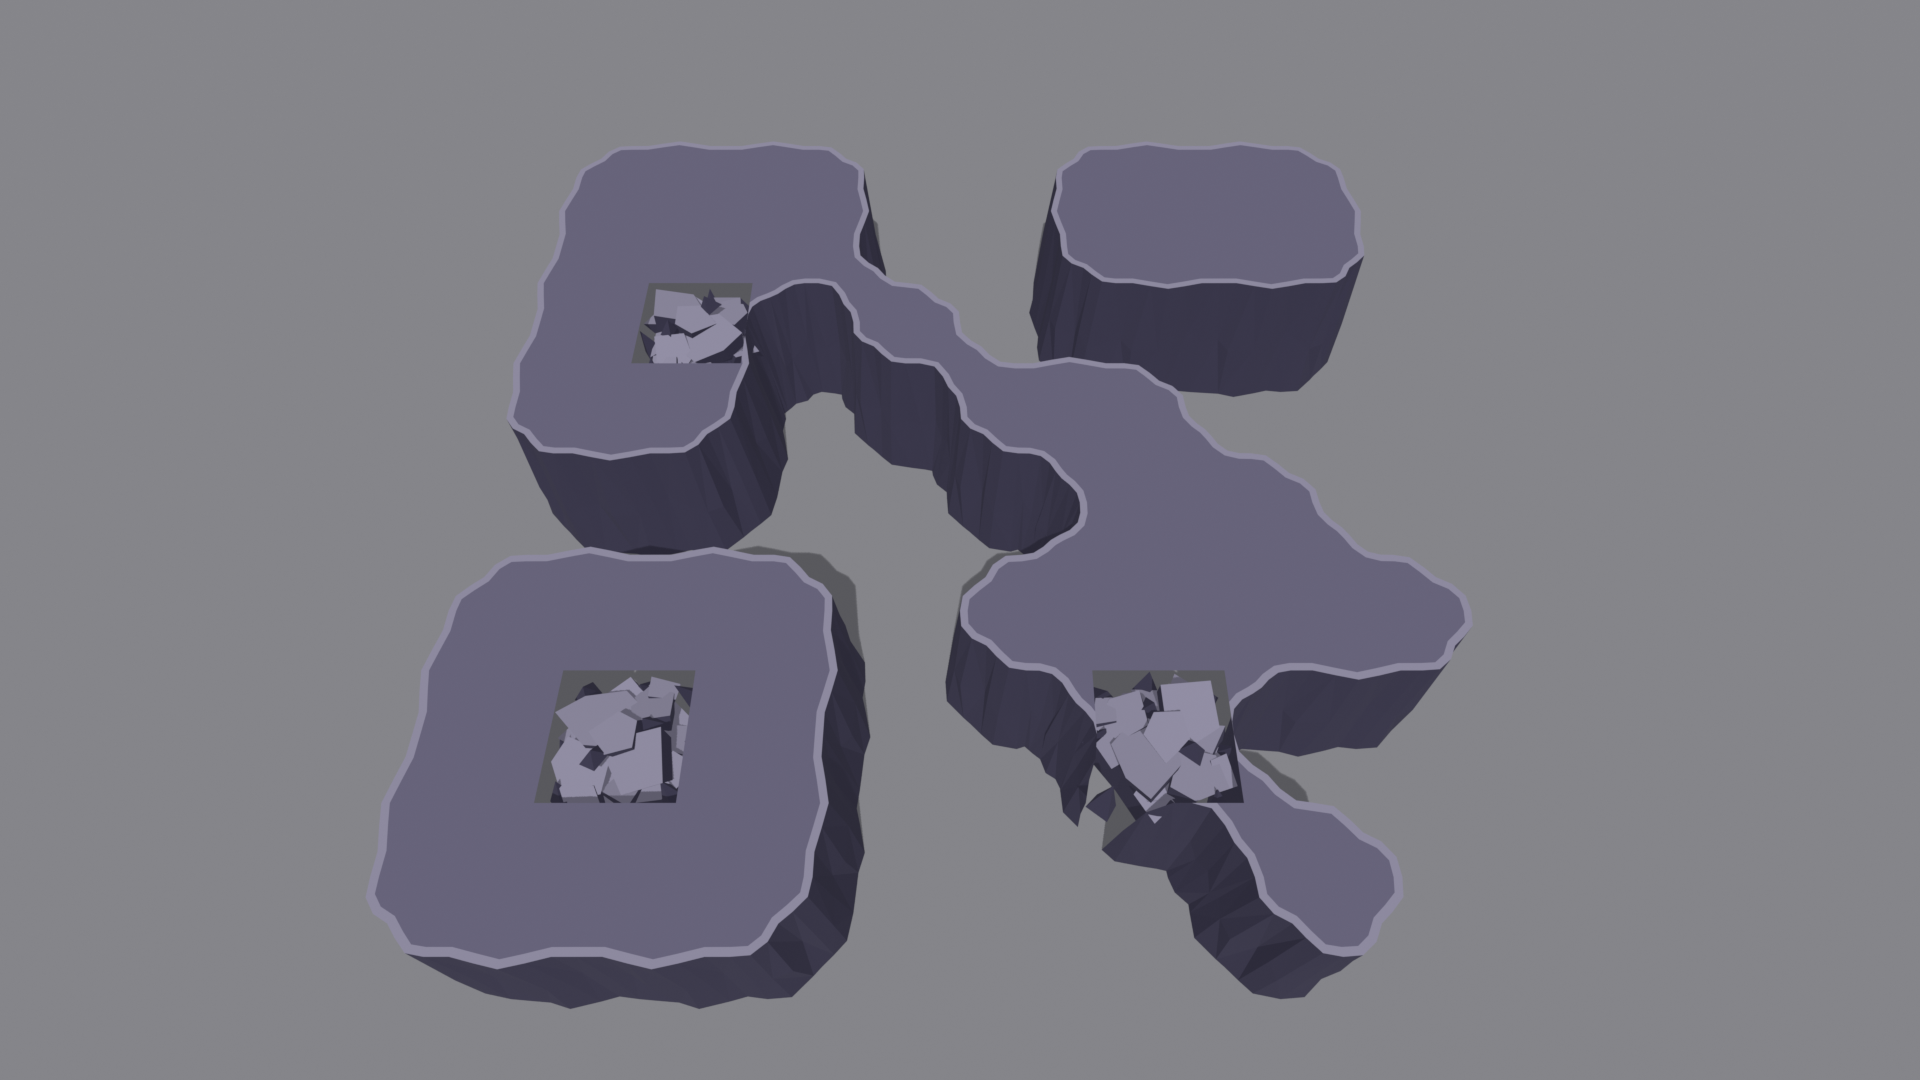
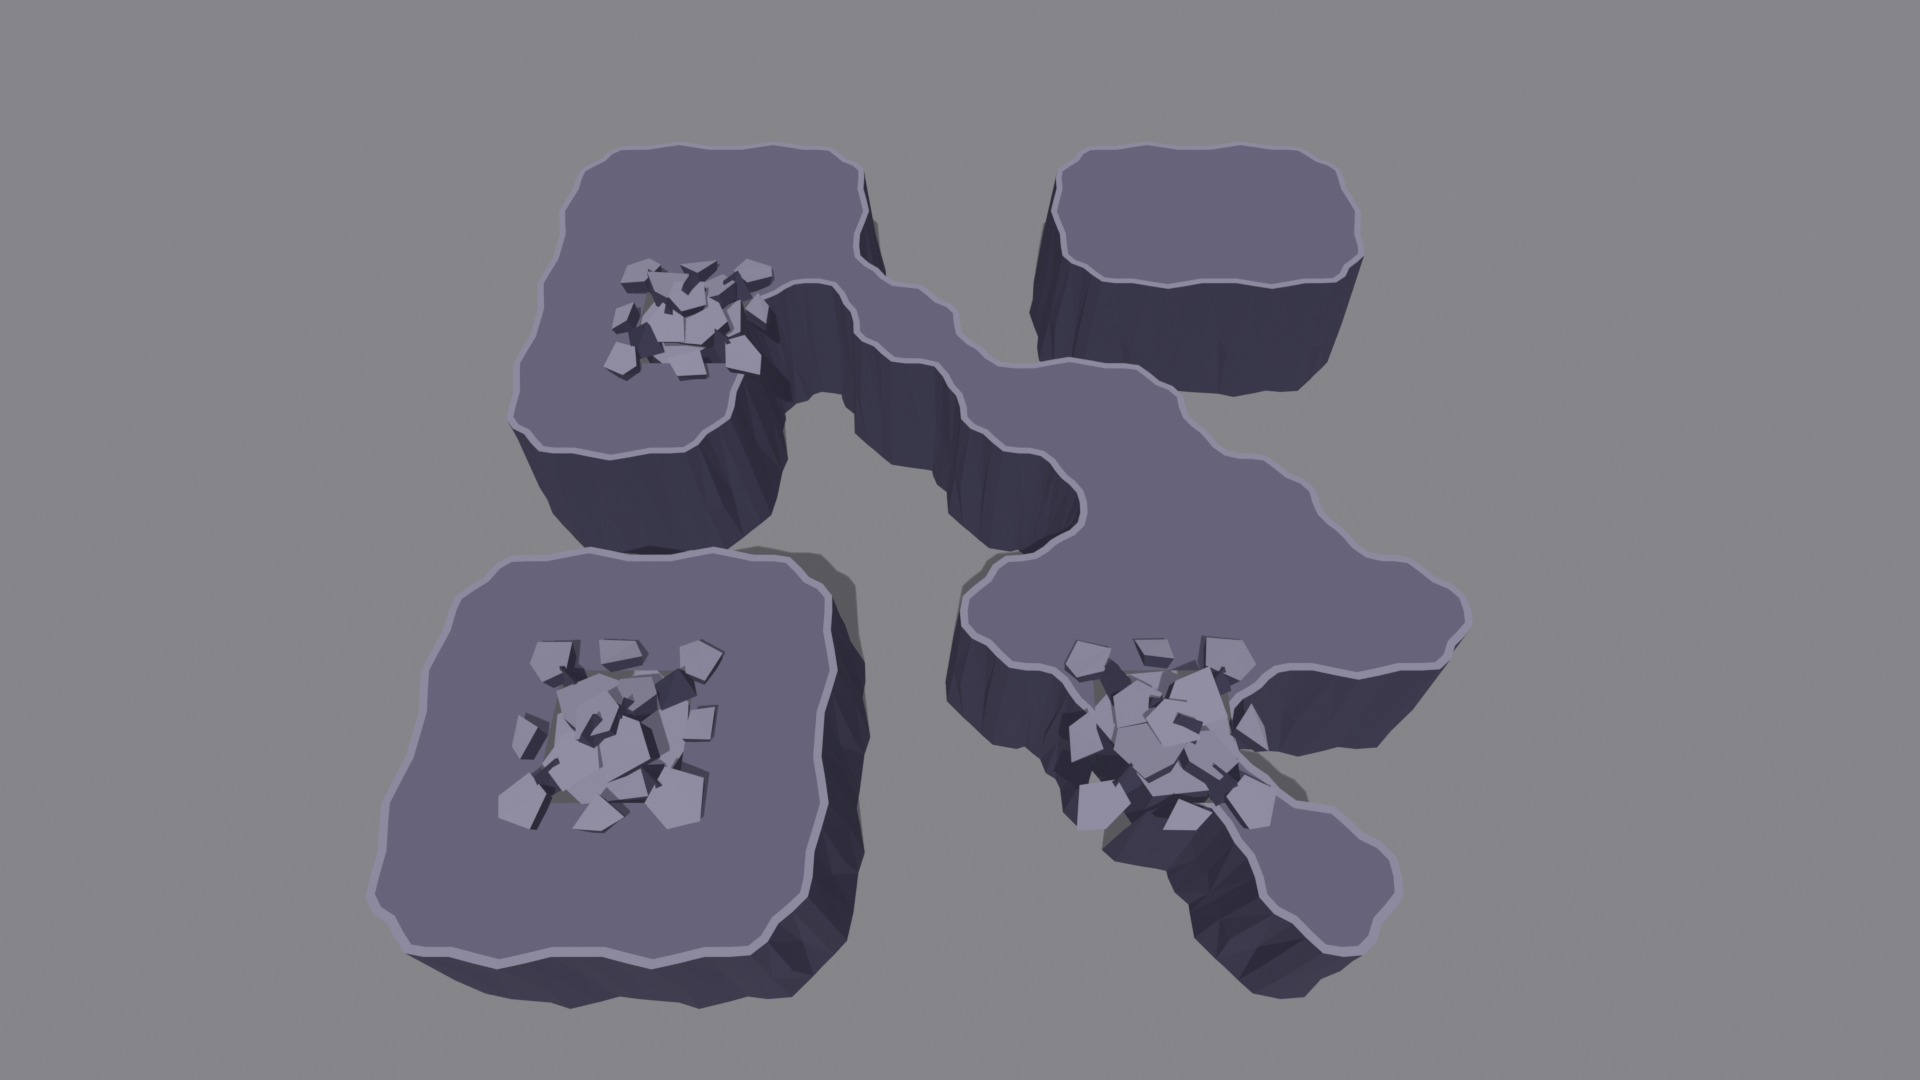
task-230-06-rock-plate-overlay: owner correction, heaved cluster up to z 132, 14 uu spill, chunky wedges (218 tris)

Changed region(s): [[0.25, 0.5806, 0.375, 0.7639], [0.5312, 0.5806, 0.6875, 0.7639], [0.3125, 0.2444, 0.4062, 0.3667]]

diff --git a/Tools/art/blender/rock_plates.py b/Tools/art/blender/rock_plates.py
@@ -8,7 +8,7 @@ import bpy, bmesh, math, os, sys, json, random
 from mathutils import Vector, Matrix
 
 H = 33.5
-MAX_OUT = 5.0          # allowed overshoot beyond the footprint
+MAX_OUT = 15.0         # allowed overshoot beyond the footprint
 TOPSLAB = 100.0
 argv = sys.argv[sys.argv.index("--") + 1:] if "--" in sys.argv else []
 ROOT = os.path.abspath(os.path.join(os.path.dirname(os.path.abspath(__file__)), "..", "..", ".."))
@@ -69,51 +69,46 @@ def plate(b, rng, c, r, t, n, az, deg, bottom_shrink=0.8, spin=None):
         b.tri(top[i], bot[j], bot[i], ctr, False)
 
 
-def shard(b, rng, c, r, h, n, lean_az, lean_deg):
-    """upright broken shard: n-gon base (z = c.z), apex offset by lean; no base face. n tris."""
-    ang = [2 * math.pi * (i + rng.uniform(-0.2, 0.2)) / n + rng.uniform(0, 0.3) for i in range(n)]
-    base = [Vector((c[0] + r * rng.uniform(0.7, 1.15) * math.cos(a), c[1] + r * rng.uniform(0.7, 1.15) * math.sin(a), c[2])) for a in ang]
-    lean = h * math.tan(math.radians(lean_deg))
-    apex = Vector((c[0] + lean * math.cos(lean_az), c[1] + lean * math.sin(lean_az), c[2] + h))
-    ctr = Vector((c[0], c[1], c[2] - 5.0))
-    for i in range(n):
-        b.tri(base[i], base[(i + 1) % n], apex, ctr, False)
+def wedge(b, rng, c, w, d, h, az, ridge=0.7):
+    """chunky broken wedge: rectangular base (z = c.z) w x d, ridge edge at height h, ends cut flat. no base face. 6 tris."""
+    def L(x, y, z):
+        x += rng.uniform(-1.2, 1.2); y += rng.uniform(-1.2, 1.2)
+        ca, sa = math.cos(az), math.sin(az)
+        return Vector((c[0] + x * ca - y * sa, c[1] + x * sa + y * ca, c[2] + z))
+    p0, p1, p2, p3 = L(-w / 2, -d / 2, 0), L(w / 2, -d / 2, 0), L(w / 2, d / 2, 0), L(-w / 2, d / 2, 0)
+    r0, r1 = L(-w * ridge / 2, -d * 0.12, h), L(w * ridge / 2, d * 0.12, h)
+    ctr = Vector((c[0], c[1], c[2] - 8.0))
+    b.tri(p0, p1, r1, ctr, False); b.tri(p0, r1, r0, ctr, False)      # front slope
+    b.tri(p2, p3, r0, ctr, False); b.tri(p2, r0, r1, ctr, False)      # back slope
+    b.tri(p1, p2, r1, ctr, False); b.tri(p3, p0, r0, ctr, False)      # flat ends
 
 
 def build():
     rng = random.Random(SEED)
     b = Builder()
-    # chunky base block: fills the cell volume, tops out ~z 82
-    plate(b, rng, (0, 0, 62), 31, 40, 8, 0.0, 3, bottom_shrink=0.92)
-    # tilted broken plates, varied heights and tilts
+    # heaving slab: wide base block reaching the slab top, tilted a little
+    plate(b, rng, (0, 0, 70), 34, 60, 8, 0.0, 3, bottom_shrink=0.92)
     P = [  # centre, radius, thickness, sides, tilt azimuth deg, tilt deg
-        ((-11, 9, 90), 21, 14, 6, 40, 17),
-        ((13, -12, 94), 19, 13, 5, 210, 22),
-        ((12, 15, 88), 16, 12, 5, 100, 27),
-        ((-18, -14, 87), 16, 12, 5, 300, 15),
-        ((1, -1, 98), 14, 10, 5, 160, 11),
-        ((-14, -27, 84), 10, 9, 4, 240, 22),
-        ((26, -14, 85), 10, 9, 4, 330, 25),
-        ((15, 26, 86), 10, 9, 4, 50, 20),
-        ((-24, 6, 79), 12, 11, 4, 180, 24),
-        ((22, 2, 80), 12, 11, 4, 20, 30),
-        ((-2, 24, 82), 12, 10, 4, 270, 20),
-        ((2, -25, 81), 12, 10, 4, 90, 26),
+        # corner plates spilling over the neighbours' tops
+        ((-36, -35, 104), 15, 10, 5, 225, 14), ((37, -34, 105), 16, 10, 5, 315, 17),
+        ((35, 37, 103), 14, 10, 5, 45, 12), ((-37, 34, 105), 15, 10, 5, 135, 16),
+        # edge plates
+        ((1, -41, 103), 13, 10, 4, 270, 15), ((42, 2, 104), 12, 10, 4, 0, 18),
+        ((-3, 42, 103), 13, 10, 4, 90, 14), ((-42, -3, 104), 12, 10, 4, 180, 17),
+        # heaved plates in the middle, up to about 125
+        ((-9, 8, 108), 20, 12, 6, 40, 20), ((12, -10, 114), 17, 12, 5, 210, 24),
+        ((10, 14, 110), 14, 11, 5, 100, 27), ((-15, -14, 109), 15, 11, 5, 300, 18),
+        ((-1, 0, 120), 13, 10, 5, 160, 14),
     ]
     for c, r, t, n, az, d in P:
         plate(b, rng, c, r, t, n, math.radians(az), d, bottom_shrink=0.78)
-    # rim of upright shards
-    SH = [  # centre xy, base z, radius, height, sides, lean azimuth deg, lean deg
-        (-29, -27, 74, 8, 24, 4, 60, 12), (-3, -31, 72, 8, 22, 4, 250, 10), (27, -28, 75, 8, 24, 4, 120, 14),
-        (31, 3, 76, 7, 20, 4, 10, 10), (28, 28, 74, 8, 24, 4, 200, 12), (3, 31, 75, 7, 20, 4, 300, 10),
-        (-28, 29, 73, 8, 22, 4, 330, 12), (-31, -4, 74, 7, 20, 4, 80, 10),
-        (-9, -12, 100, 7, 11, 4, 20, 8), (15, 6, 96, 6, 12, 3, 200, 8),
+    W = [  # centre xy, base z, width, depth, height, azimuth deg
+        (-25, -22, 100, 18, 12, 18, 30), (24, -24, 101, 16, 12, 16, 120), (26, 22, 100, 18, 12, 20, 200),
+        (-24, 25, 101, 16, 11, 16, 300), (-3, -5, 118, 14, 10, 14, 60), (8, 5, 114, 12, 9, 12, 250),
     ]
-    global lean_az
-    for x, y, z, r, h, n, laz, ld in SH:
-        lean_az = math.radians(laz)
-        shard(b, rng, (x, y, z), r, h, n, lean_az, ld)
-    lim = H + MAX_OUT - 0.5   # safety clamp: no vertex beyond 4.5 uu outside the footprint
+    for x, y, z, w, dd, h, az in W:
+        wedge(b, rng, (x, y, z), w, dd, h, math.radians(az))
+    lim = H + MAX_OUT - 1.0   # safety clamp: no vertex beyond 14 uu outside the footprint
     for v in b.bm.verts:
         v.co.x = max(-lim, min(lim, v.co.x)); v.co.y = max(-lim, min(lim, v.co.y))
     for l in (l for f in b.bm.faces for l in f.loops):
